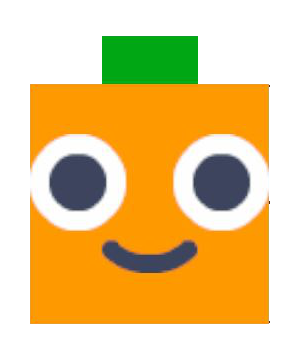
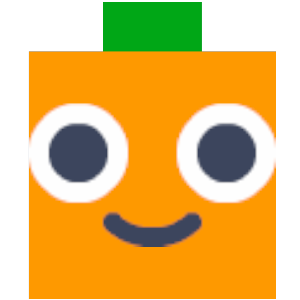
Optimized block info slider content for mobile

diff --git a/src/app/feature/content-blocks/slider-content-block/block-info-slider-content/block-info-slider-content.component.scss b/src/app/feature/content-blocks/slider-content-block/block-info-slider-content/block-info-slider-content.component.scss
@@ -87,3 +87,33 @@ p {
 .in-focus:host {
   z-index: 1;
 }
+
+@media (max-width: 650px) {
+  .block-info-container {
+    --image-container-rotation: 0deg;
+    display: flex;
+    flex-direction: column;
+    height: auto;
+  }
+
+  .bullet-points-container {
+    width: 100%;
+    height: 15rem;
+  }
+
+  .image-container {
+    transform: translateX(0%);
+    justify-content: center;
+    width: 100%;
+    padding: 0;
+  }
+
+  img {
+    width: 8rem;
+    margin: 1rem 0;
+  }
+
+  .right-button {
+    background-color: var(--primary-color);
+  }
+}

diff --git a/src/app/feature/content-blocks/slider-content-block/slider-content-block.component.scss b/src/app/feature/content-blocks/slider-content-block/slider-content-block.component.scss
@@ -49,3 +49,22 @@
 .right-button:hover {
   background-color: var(--right-button-hover-color, var(--secondary-color));
 }
+
+// not the best solution, I know, but under time pressure and way too late in the evening to care 😴
+@media (max-width: 650px) {
+  .left-button {
+    background-color: var(--primary-color);
+  }
+
+  .left-button:hover {
+    background-color: var(--secondary-color);
+  }
+
+  .right-button {
+    background-color: var(--primary-color);
+  }
+
+  .right-button:hover {
+    background-color: var(--secondary-color);
+  }
+}
